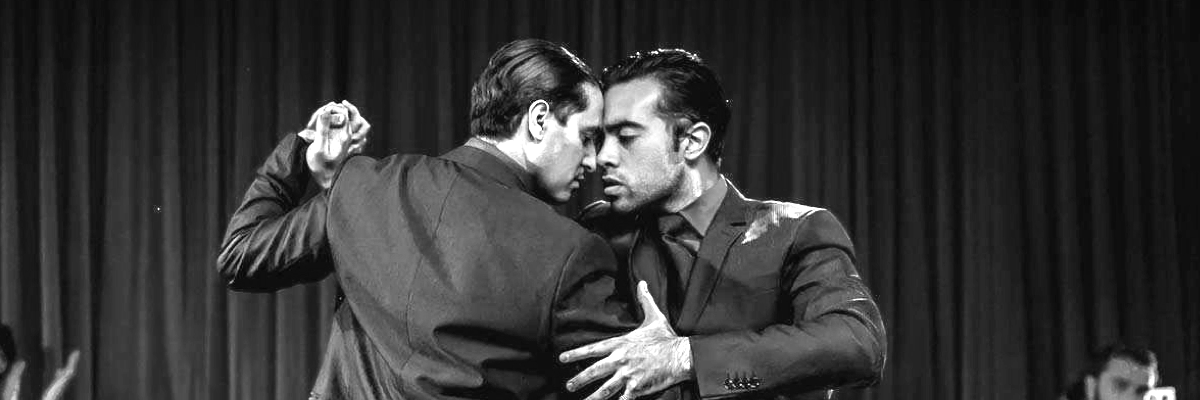
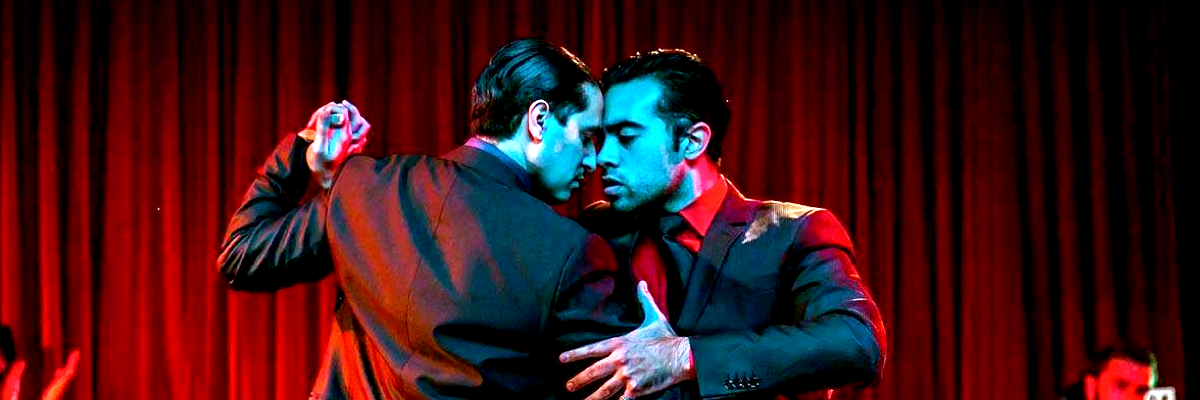
show black and white for events that have occurred and color for upcoming events

diff --git a/app/models/event.rb b/app/models/event.rb
@@ -1,5 +1,5 @@
 class Event < ActiveRecord::Base
-  has_attached_file :cover_photo, styles: { jumbo: 'x550', large: 'x400' }
+  has_attached_file :cover_photo, styles: { grayscale: { convert_options: '-colorspace Gray' } }
   validates_attachment_content_type :cover_photo, content_type: %w(image/jpeg image/jpg image/png)
 
   has_many :sessions
@@ -17,9 +17,16 @@ class Event < ActiveRecord::Base
     sessions.order(starts_at: :asc).group_by { |session| session.starts_at.to_date }.values
   end
 
+  def start_time
+    sessions.order(starts_at: :asc).limit(1).pluck(:starts_at).first
+  end
+
+  def start_time
+    sessions.order(ends_at: :desc).limit(1).pluck(:ends_at).first
+  end
+
   def registerable?
-    first_session = sessions.order(starts_at: :asc).limit(1).first
-    Date.today < first_session.starts_at.to_date &&
+    Date.today < start_time.to_date &&
                  sessions.any?(&:registerable?)
   end
 end

diff --git a/app/helpers/application_helper.rb b/app/helpers/application_helper.rb
@@ -37,4 +37,12 @@ module ApplicationHelper
   def format_location_name(name)
     name.gsub(/([&:])/, '\1<br>').html_safe
   end
+
+  def cover_photo_url(event)
+    if DateTime.now > event.start_time
+      event.cover_photo.url(:grayscale)
+    else
+      event.cover_photo.url(:original)
+    end
+  end
 end
